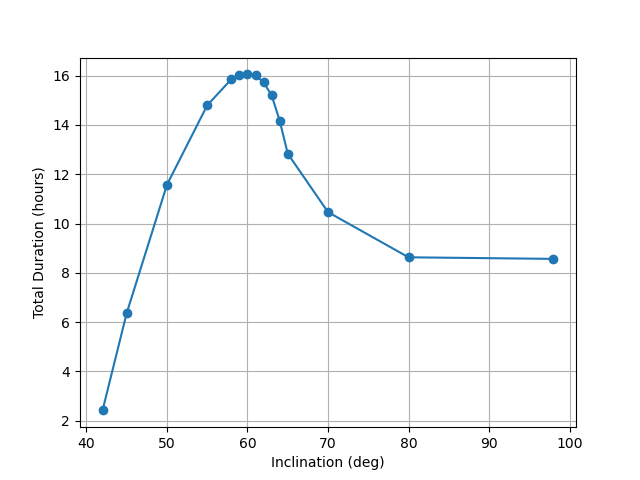
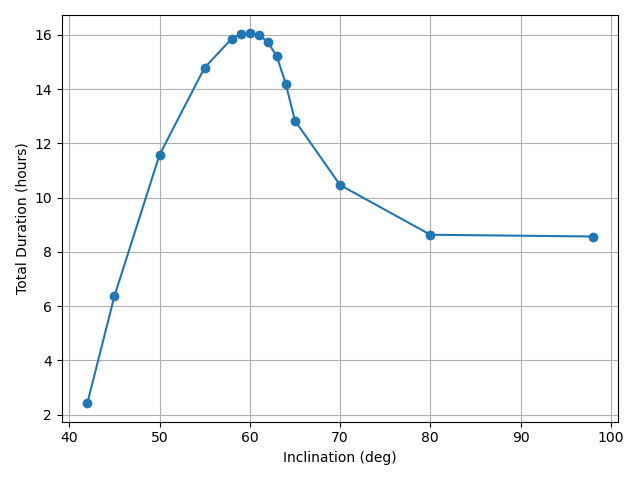
tight layout for figs

diff --git a/GroundStationContact.py b/GroundStationContact.py
@@ -129,6 +129,7 @@ plt.xlabel('Inclination (deg)')
 plt.ylabel('Visition Frequency (Number of Contacts)')
 #plt.title('Visition Frequency vs Inclination')
 plt.grid(True)
+plt.tight_layout()
 plt.savefig("plots/VisitFreqIfoInc")
 # Print the number of contacts
 
@@ -175,6 +176,7 @@ plt.xlabel('Inclination (deg)')
 plt.ylabel('Total Duration (hours)')
 #plt.title('Total Contact Duration vs Inclination')
 plt.grid(True)
+plt.tight_layout()
 plt.savefig("plots/TotDurIfoInc")  
 
 # Create a table of inclination and total duration
